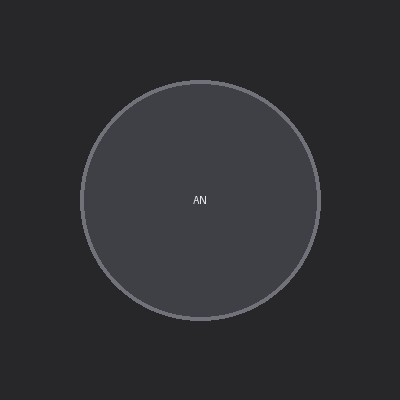
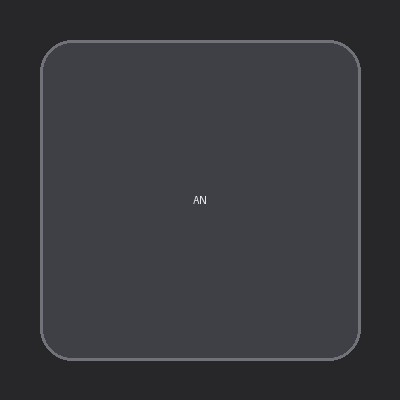
Add files via upload

diff --git a/index.html b/index.html
@@ -28,9 +28,9 @@
 
   <main class="max-w-2xl mx-auto px-6 py-16 sm:py-24 space-y-16">
     
-    <!-- Header with Profile Picture at Right -->
+    <!-- Header with Square-Framed Profile Picture at Right -->
     <header class="space-y-5">
-      <div class="flex flex-col-reverse sm:flex-row sm:items-start sm:justify-between gap-5">
+      <div class="flex flex-col-reverse sm:flex-row sm:items-start sm:justify-between gap-6">
         
         <!-- Bio Info (Left) -->
         <div class="space-y-3 flex-1">
@@ -57,9 +57,9 @@
           </div>
         </div>
 
-        <!-- Avatar & Theme Toggle (Right) -->
-        <div class="flex items-start justify-between sm:justify-end gap-3 shrink-0">
-          <button id="theme-toggle" aria-label="Toggle theme" class="p-2 rounded-lg border border-zinc-200 dark:border-zinc-800 hover:bg-zinc-100 dark:hover:bg-zinc-900 text-zinc-600 dark:text-zinc-400 transition-colors order-2 sm:order-1">
+        <!-- Avatar (Square Frame) & Theme Toggle (Right) -->
+        <div class="flex items-start justify-between sm:justify-end gap-3.5 shrink-0">
+          <button id="theme-toggle" aria-label="Toggle theme" class="p-2 rounded-lg border border-zinc-200 dark:border-zinc-800 hover:bg-zinc-100 dark:hover:bg-zinc-900 text-zinc-600 dark:text-zinc-400 transition-colors order-2 sm:order-1 mt-1">
             <svg id="theme-icon" class="w-4 h-4" fill="none" stroke="currentColor" viewBox="0 0 24 24">
               <path stroke-linecap="round" stroke-linejoin="round" stroke-width="2" d="M12 3v1m0 16v1m9-9h-1M4 12H3m15.364 6.364l-.707-.707M6.343 6.343l-.707-.707m12.728 0l-.707.707M6.343 17.657l-.707.707M16 12a4 4 0 11-8 0 4 4 0 018 0z" />
             </svg>
@@ -68,8 +68,8 @@
           <img 
             src="profile.jpg" 
             alt="Ashirbad Narayan Bhanjadeo" 
-            onerror="this.onerror=null; this.src='https://images.unsplash.com/photo-1534528741775-53994a69daeb?w=300&auto=format&fit=crop&q=80';"
-            class="w-20 h-20 sm:w-24 sm:h-24 rounded-full object-cover border-2 border-zinc-200 dark:border-zinc-800 order-1 sm:order-2 shadow-sm bg-zinc-200 dark:bg-zinc-800"
+            onerror="this.onerror=null; this.src='https://images.unsplash.com/photo-1534528741775-53994a69daeb?w=400&auto=format&fit=crop&q=80';"
+            class="w-28 h-28 sm:w-32 sm:h-32 rounded-xl object-cover border border-zinc-200 dark:border-zinc-800 order-1 sm:order-2 shadow-sm bg-zinc-200 dark:bg-zinc-800"
           />
         </div>
 

diff --git a/README.md b/README.md
@@ -1,6 +1,6 @@
-# Ashirbad Narayan Bhanjadeo — Personal Portfolio
+# Ashirbad Narayan Bhanjadeo — Personal Portfolio (v2)
 
-Minimalist, responsive personal portfolio website built with HTML5 and Tailwind CSS.
+Minimalist, responsive personal portfolio website with a square-framed profile portrait and clean typography.
 
 ## Files
 - `index.html`: Main portfolio website.
